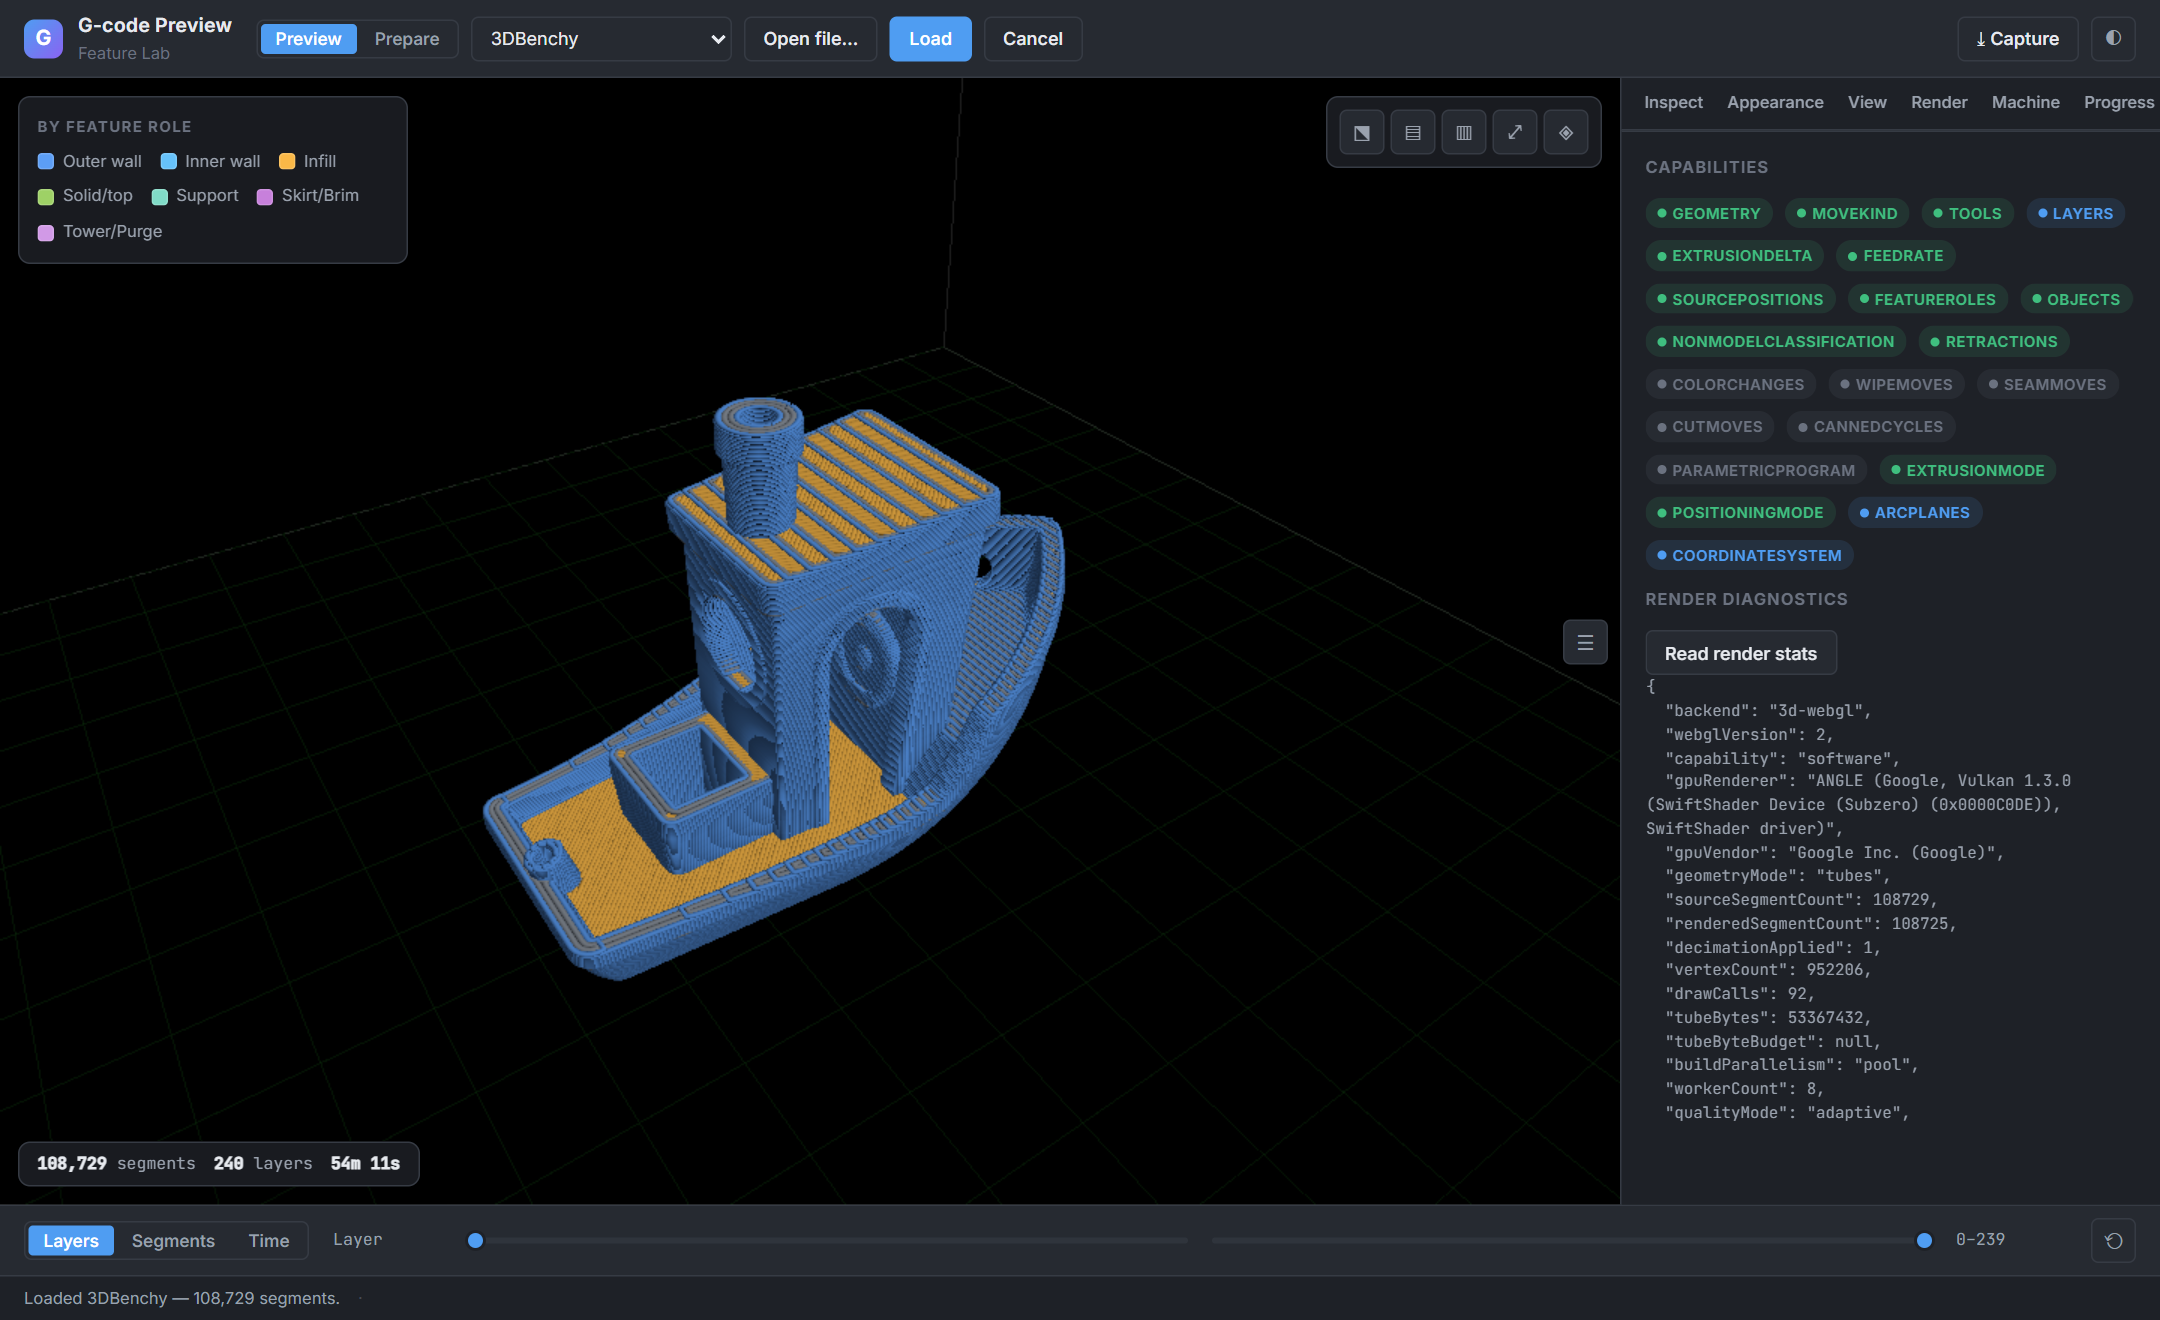
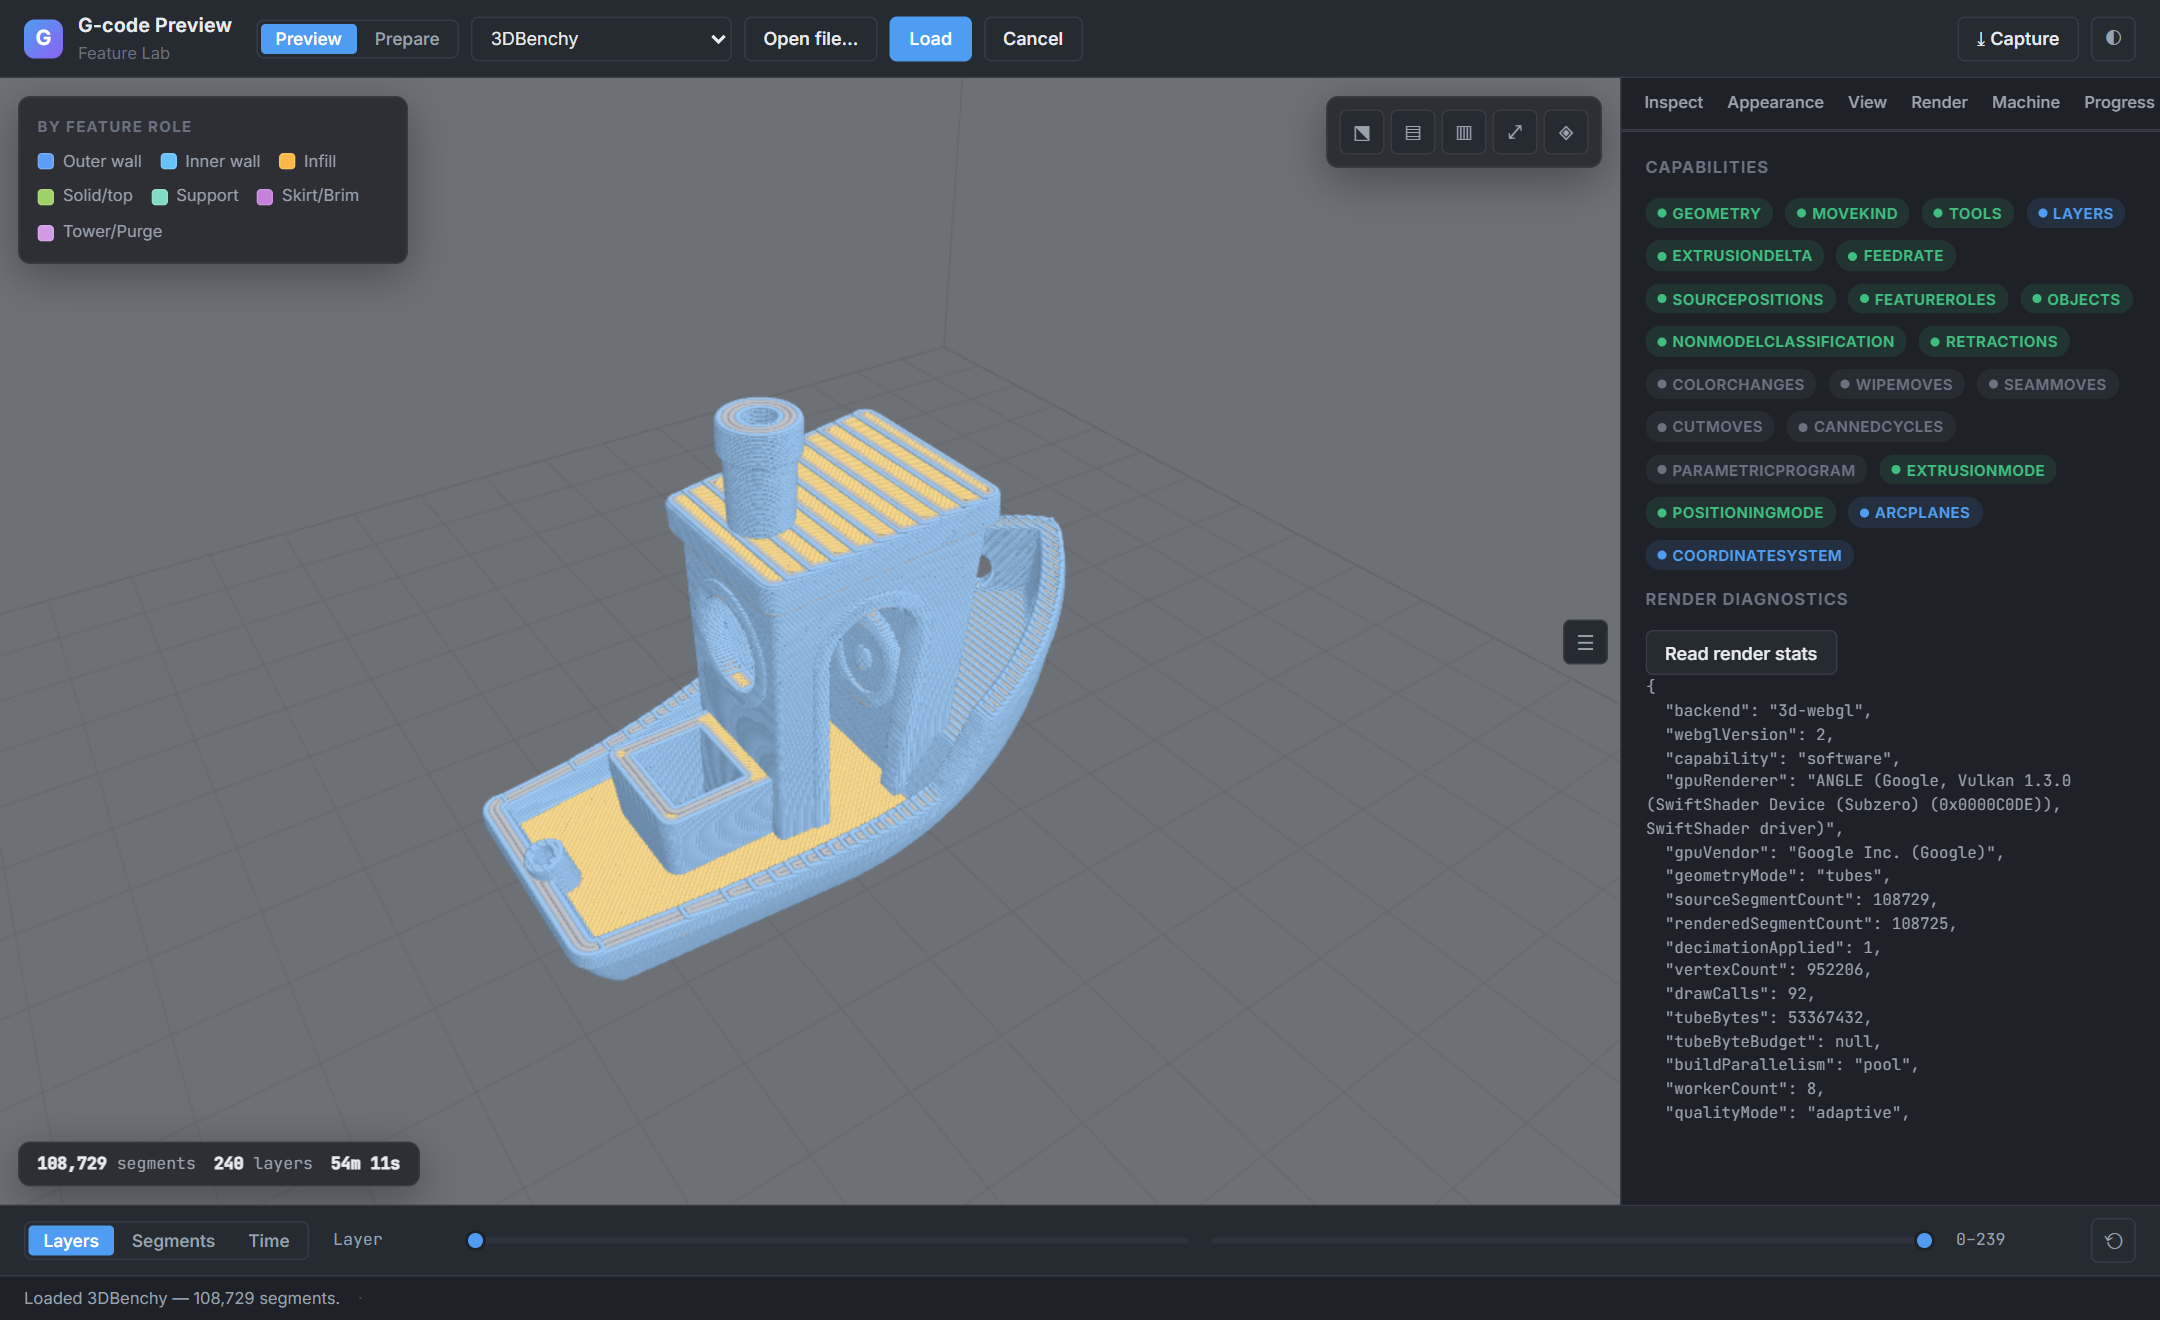
docs(demos): render every demo on the shared documentation mid-grey, matching the docs imagery
The Feature Lab and framework examples rendered their viewports on the studio-dark background while
every capability render in the README/docs sits on the neutral mid-grey documentation workspace, so
the app screenshots (hero + Prepare/Preview cards) looked like a different set. Put both viewers on
the same mid-grey (#6d7176) across all surfaces so the demos and the docs read as one product.

- demo-kit: new `theme.js` exporting `DOC_VIEWPORT_THEME` (toolpath `theme`) and `DOC_VIEWPORT_BG`
  (model `background`) — the one viewport look shared by the Feature Lab and the four showcases.
- Feature Lab: default the Scene → Theme to "Documentation grey"; the Prepare (model) viewport now
  shares the toolpath theme's background instead of a transparent canvas over the app chrome.
- Four showcases (React/Vue/Svelte/WC): pass DOC_VIEWPORT_THEME to <GcodePreview> and DOC_VIEWPORT_BG
  to <ModelViewer>/<gcode-model-viewer>. Minimals get a tiny inline theme/background (kept minimal).
- This is a demo/documentation preference only — the renderer still ships a transparent default and
  consumers keep full control of theming.

Two defects found and fixed while verifying:
- capture-app.mjs was compositing `controls.capture()`, whose render-to-target readback is in LINEAR
  colour space (no sRGB output encoding) and darkened the mid-grey to its linear value
  (#6d7176 → ~#272a2e). It now copies the LIVE sRGB-correct canvas (drawImage → toDataURL), the same
[…]

diff --git a/tools/demo/src/main.js b/tools/demo/src/main.js
@@ -50,6 +50,10 @@ const THEMES = {
   }
 };
 const themeFor = () => ({ ...(THEMES[els.theme.value] ?? {}), materialPreset: els.material.value });
+// The Prepare (model) viewport shares the toolpath theme's background so both halves read as one
+// workspace — the canonical documentation mid-grey by default, not the page's app chrome behind a
+// transparent canvas.
+const modelBg = () => THEMES[els.theme.value]?.background ?? '#6d7176';
 
 // ---- controller (the published core, 3D by default) ----
 const preview = createPreviewController({
@@ -70,7 +74,7 @@ let modelInfo = null;
 
 function ensureModel() {
   if (modelController !== null) return modelController;
-  modelController = createModelPreviewController({ background: 'transparent', interactionQuality: 'auto' });
+  modelController = createModelPreviewController({ background: modelBg(), interactionQuality: 'auto' });
   modelController.bindCanvas(els.modelView);
   modelController.onEvent((e) => {
     if (e.type === 'ready') {
@@ -313,7 +317,10 @@ function stageLabel(e) {
 
 function onReady() {
   ready = true;
-  els.countPill.hidden = false;
+  // Toolpath overlays belong to Preview only. A parse can settle just after a switch to Prepare
+  // (its callback still fires), so gate the pill on the current mode or a stale toolpath pill leaks
+  // over the source model.
+  els.countPill.hidden = mode !== 'preview';
   enableControls(true);
   // scrub ranges
   const state = preview.getState();
@@ -341,7 +348,7 @@ preview.onStateChange((state) => {
     ready && !state.hasRetractions ? 'Retraction markers — none in this file' : 'Retraction markers';
   // disclosure + time
   els.disclosure.textContent = state.disclosure ?? '';
-  if (state.totalTimeMs != null) {
+  if (state.totalTimeMs != null && mode === 'preview') {
     els.timePill.hidden = false;
     els.timeLbl.textContent = duration(state.totalTimeMs);
     els.timeLbl.title = `Estimate: ${timeSourceNote(state.timeEstimateSource)}`;
@@ -479,7 +486,10 @@ els.view.addEventListener('click', (ev) => {
 
 // ============ wiring: appearance ============
 els.colorMode.addEventListener('change', applyColorMode);
-els.theme.addEventListener('change', () => preview.controls.setTheme(themeFor()));
+els.theme.addEventListener('change', () => {
+  preview.controls.setTheme(themeFor());
+  modelController?.controls.setBackground(modelBg());
+});
 els.material.addEventListener('change', () => preview.controls.setTheme(themeFor()));
 
 // ============ wiring: view ============

diff --git a/tools/demo-kit/theme.js b/tools/demo-kit/theme.js
@@ -1,0 +1,21 @@
+/*
+ * demo-kit/theme — the one viewport look shared by every Chestnut Labs development surface.
+ *
+ * The Feature Lab and the four framework showcases all render into the canonical neutral **mid-grey
+ * documentation workspace** (#6d7176) — the same grey the screenshot harness uses for the capability
+ * renders in the README/docs — so a visitor moving between the demos, and the imagery in the docs,
+ * all read as one consistent product. This is a demo/documentation preference, NOT a library default:
+ * the renderer still ships a transparent/unset background and consumers keep full control of theming.
+ *
+ * `DOC_VIEWPORT_THEME` is a bounded declarative `Theme` for the toolpath viewer (`<GcodePreview>`'s
+ * `theme` prop / `controls.setTheme`). `DOC_VIEWPORT_BG` is the matching flat background for the model
+ * viewer (`<ModelViewer background=…>`), which themes only its clear colour.
+ */
+export const DOC_VIEWPORT_BG = '#6d7176';
+
+export const DOC_VIEWPORT_THEME = {
+  background: DOC_VIEWPORT_BG,
+  gridColor: '#565a60',
+  bedColor: '#565a60',
+  hemisphereIntensity: 2.1
+};

diff --git a/tools/example-react/src/showcase.jsx b/tools/example-react/src/showcase.jsx
@@ -26,7 +26,9 @@ import {
   confidenceTier,
   rgbCss,
   count as formatCount,
-  duration as formatDuration
+  duration as formatDuration,
+  DOC_VIEWPORT_THEME,
+  DOC_VIEWPORT_BG
 } from '../../demo-kit/index.js';
 import '../../demo-kit/tokens.css';
 
@@ -193,6 +195,7 @@ function App() {
               showTravel={showTravel}
               showRetractions={showRetractions}
               view={view}
+              theme={DOC_VIEWPORT_THEME}
               frameContent="object"
               quality="auto"
               onReady={onReady}
@@ -205,7 +208,7 @@ function App() {
               ref={modelRef}
               source={modelSource}
               view={view}
-              background="transparent"
+              background={DOC_VIEWPORT_BG}
               onReady={(info) => setModelInfo(info)}
               onError={(e) => setDisclosure(`Model error: ${e.code} — ${e.message}`)}
             />

diff --git a/tools/example-vue/src/Showcase.vue b/tools/example-vue/src/Showcase.vue
@@ -29,7 +29,9 @@ import {
   confidenceTier,
   rgbCss,
   count as formatCount,
-  duration as formatDuration
+  duration as formatDuration,
+  DOC_VIEWPORT_THEME,
+  DOC_VIEWPORT_BG
 } from '../../demo-kit/index.js';
 
 const ADHESION_ROLES = [FeatureRole.Skirt, FeatureRole.Brim];
@@ -199,6 +201,7 @@ function modeDisabled(id) {
         :show-travel="showTravel"
         :show-retractions="showRetractions"
         :view="view"
+        :theme="DOC_VIEWPORT_THEME"
         frame-content="object"
         quality="auto"
         @ready="onReady"
@@ -211,7 +214,7 @@ function modeDisabled(id) {
         ref="modelViewer"
         :source="modelSource"
         :view="view"
-        background="transparent"
+        :background="DOC_VIEWPORT_BG"
         @ready="onModelReady"
         @error="disclosure = `Model error: ${$event.code} — ${$event.message}`"
       />

diff --git a/tools/example-svelte/src/Showcase.svelte b/tools/example-svelte/src/Showcase.svelte
@@ -28,7 +28,9 @@
     confidenceTier,
     rgbCss,
     count as formatCount,
-    duration as formatDuration
+    duration as formatDuration,
+    DOC_VIEWPORT_THEME,
+    DOC_VIEWPORT_BG
   } from '../../demo-kit/index.js';
 
   const ADHESION_ROLES = [FeatureRole.Skirt, FeatureRole.Brim];
@@ -209,6 +211,7 @@
         {showTravel}
         {showRetractions}
         {view}
+        theme={DOC_VIEWPORT_THEME}
         frameContent="object"
         quality="auto"
         on:ready={onReady}
@@ -221,7 +224,7 @@
         bind:this={modelViewer}
         source={modelSource}
         {view}
-        background="transparent"
+        background={DOC_VIEWPORT_BG}
         on:ready={onModelReady}
         on:error={(e) => (disclosure = `Model error: ${e.detail.code} — ${e.detail.message}`)}
       />

diff --git a/tools/example-webcomponent/src/showcase.js b/tools/example-webcomponent/src/showcase.js
@@ -25,7 +25,9 @@ import {
   confidenceTier,
   rgbCss,
   count as formatCount,
-  duration as formatDuration
+  duration as formatDuration,
+  DOC_VIEWPORT_THEME,
+  DOC_VIEWPORT_BG
 } from '../../demo-kit/index.js';
 import '../../demo-kit/tokens.css';
 
@@ -35,6 +37,12 @@ const $ = (id) => document.getElementById(id);
 
 const view = $('view');
 const modelView = $('modelView');
+
+// Both viewers render into the shared documentation mid-grey workspace (theme/background are object
+// properties on the elements, not attributes) so the Web Component demo matches the Feature Lab, the
+// other framework showcases, and the docs imagery.
+view.theme = DOC_VIEWPORT_THEME;
+modelView.background = DOC_VIEWPORT_BG;
 let caps = {};
 let layers = 0;
 let segments = 0;

diff --git a/tools/demo/index.html b/tools/demo/index.html
@@ -454,8 +454,8 @@
               <div class="gp-field">
                 <label for="theme">Theme</label>
                 <select id="theme" class="gp-input">
+                  <option value="docgrey" selected>Documentation grey</option>
                   <option value="default">Studio (dark)</option>
-                  <option value="docgrey">Documentation grey</option>
                   <option value="blueprint">Blueprint</option>
                   <option value="light">Light</option>
                   <option value="bedplate">Bed plate</option>

diff --git a/tools/example-webcomponent/src/model-minimal.js b/tools/example-webcomponent/src/model-minimal.js
@@ -15,6 +15,9 @@ const view = document.getElementById('view');
 const fixture = document.getElementById('fixture');
 const info = document.getElementById('info');
 
+// Render into the shared documentation mid-grey workspace (background property; also a `background` attr).
+view.background = '#6d7176';
+
 // Populate the picker from the shared model fixtures.
 fixture.insertAdjacentHTML(
   'beforeend',

diff --git a/tools/example-webcomponent/src/minimal.js b/tools/example-webcomponent/src/minimal.js
@@ -18,6 +18,8 @@ const layerMax = document.getElementById('layerMax');
 
 // Hide travel moves for a clean first view (property; the element defaults showTravel to true).
 view.showTravel = false;
+// Render into the shared documentation mid-grey workspace (theme is an object property).
+view.theme = { background: '#6d7176' };
 
 let layers = 0;
 

diff --git a/tools/example-svelte/src/Minimal.svelte b/tools/example-svelte/src/Minimal.svelte
@@ -45,5 +45,5 @@
   {/if}
 </header>
 <main>
-  <GcodePreview {source} layerRange={layers > 0 ? [0, topLayer] : null} showTravel={false} on:ready={onReady} />
+  <GcodePreview {source} layerRange={layers > 0 ? [0, topLayer] : null} showTravel={false} theme={{ background: '#6d7176' }} on:ready={onReady} />
 </main>

diff --git a/tools/example-react/src/minimal.jsx b/tools/example-react/src/minimal.jsx
@@ -54,6 +54,7 @@ function App() {
           source={source}
           layerRange={layers > 0 ? [0, topLayer] : null}
           showTravel={false}
+          theme={{ background: '#6d7176' }}
           onReady={(s) => {
             setLayers(s.layers);
             setTopLayer(Math.max(0, s.layers - 1));

diff --git a/tools/example-react/src/model-minimal.jsx b/tools/example-react/src/model-minimal.jsx
@@ -41,7 +41,7 @@ function App() {
         )}
       </header>
       <main>
-        <ModelViewer source={source} background="transparent" onReady={(i) => setInfo(i)} />
+        <ModelViewer source={source} background="#6d7176" onReady={(i) => setInfo(i)} />
       </main>
     </>
   );
